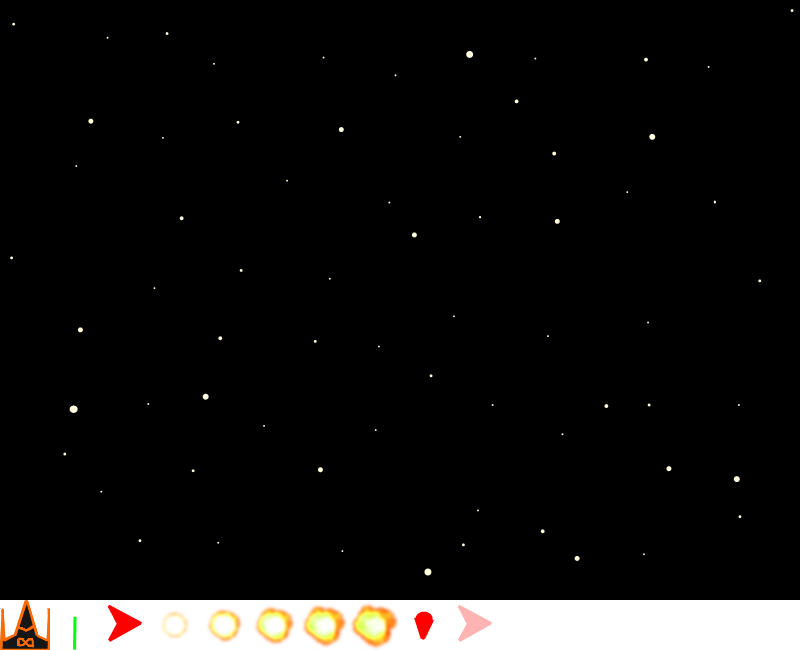
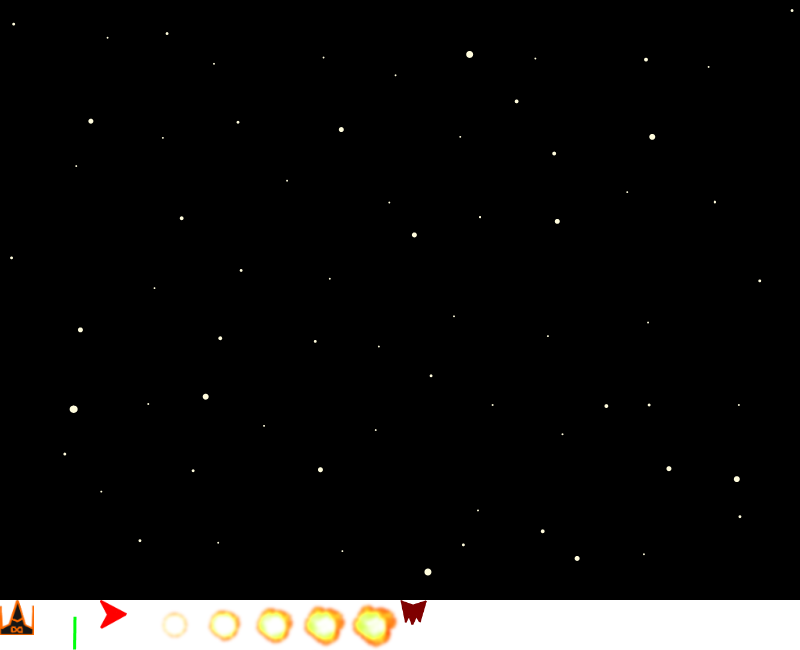
File splitting + New paths + New patrol enemy

Changed region(s): [[0.5, 0.9231, 0.625, 0.9846], [0.0, 0.9231, 0.0625, 1.0], [0.125, 0.9231, 0.1875, 0.9846]]

diff --git a/public/js/game.js b/public/js/game.js
@@ -1,31 +1,14 @@
-/*
-TODO list:
+/**
+ * game.js
+ * Jesse Emond and William Turner
+ * 12/11/2012
 
-*/
-
+ The main file of the game. All the components are mixed together here.
+ */
 
 // Game constants not-so-constant
 var SCREEN_W = 800;
 var SCREEN_H = 600;
-
-// Enemy constants
-
-// ENEMY1
-// Goes from a corner of the screen to the lower part of the screen on the other part
-var E1_FRAMES = 120; // frames required for the whole path
-var E1_STARTX = -50; // starting x and y coords
-var E1_STARTY = -50;
-var E1_TARGETX = SCREEN_W+50; // target x and y coords
-var E1_TARGETY = SCREEN_H+50;
-// function parameters calculated with the specified start&target parameters
-// at+b for the x coord, where b is the starting x pos
-var E1_X_B = E1_STARTX;
-var E1_X_A = (E1_TARGETX - E1_X_B) / E1_FRAMES;
-// a t^2 + k for the y coord, where k is the starting y pos
-var E1_Y_K = E1_STARTY;
-var E1_Y_A = (E1_TARGETY - E1_Y_K) / (E1_FRAMES * E1_FRAMES);
-// final result
-function enemy1Func(t) { return {x: E1_X_A * t + E1_X_B, y: E1_Y_A * t * t + E1_Y_K}; }
 
 // Initialize the game screen
 Crafty.init(SCREEN_W, SCREEN_H);
@@ -35,9 +18,9 @@ Crafty.sprite(50, "assets/back.png", {
     space: [0,0, 16, 12], // the space background
     ship: [0, 12], // the spaceship
     pewpewlazors: [1, 12], // the pewpew
-    enemy1: [2, 12], // the first enemy
+    grunt: [2, 12], // the grunt enemy
     explosion: [3, 12], // the explosion animation
-    fireball: [8, 12] // the fireball
+    patrol: [8, 12] // the patrol enemy
     });
     
 // Represents an image that will reset up the screen once it reached the bottom
@@ -137,23 +120,24 @@ Crafty.c("NotifyWhenOutOfScreen", {
 Crafty.c("FollowPath", {
     _path: function(x) { return x; },
     _deltaT: 0,
-    _reflexionY: false,
     init: function() {
         this.deltaT = 0;
+        this.showRotation = true;
 
         this.bind("EnterFrame", function() {
             var newPos = this.path(this.deltaT);
-            this.x = newPos.x;
-            this.y = newPos.y;
-            if (this.reflexionY)
-                this.x = -this.x + SCREEN_W;
+            var rect = this.mbr();
+            this.x = newPos.x + rect._w / 2;
+            this.y = newPos.y + rect._h / 2;
 
             this.deltaT++;
 
             // find the orientation that we should have based on our next position
-            var nextPos = this.path(this.deltaT);
-            this.rotation = Crafty.math.radToDeg(Math.atan2(nextPos.y - newPos.y, nextPos.x - newPos.x));
-            if (this.reflexionY) this.rotation = -this.rotation + 180;
+            if (this.showRotation)
+            {
+                var nextPos = this.path(this.deltaT);
+                this.rotation = Crafty.math.radToDeg(Math.atan2(nextPos.y - newPos.y, nextPos.x - newPos.x));
+            }
 
 
             // Is going out of screen? Destroy it.
@@ -167,7 +151,7 @@ Crafty.c("FollowPath", {
         });
     },
     followPath: function(func) { this.path = func; return this; },
-    setSpawnFromRight: function(spawnFromRight) { this.reflexionY = spawnFromRight; }
+    allowRotation: function(allow) { this.showRotation = allow; }
 });
 
 // Called when an enemy is hit by a pewpewlazors
@@ -263,7 +247,8 @@ Crafty.c("Spaceship", {
 
     init: function() {
         this.requires("2D, Canvas, ship, Living, HealthBar")
-            .setMaxHealth(100);
+            .setMaxHealth(100)
+            .crop(0,0,35,35);
         this.x = SCREEN_W/2 - this.w/2;
         this.y = SCREEN_H/2 - this.h/2;
         this.canShoot = true;
@@ -287,12 +272,12 @@ Crafty.c("Spaceship", {
                 .setDamage(10)
                 .setAngle(0)
                 .setSpeed(15)
+                .crop(22,15,4,35)
                 .collision()
-                .onHit("Enemy", onLazorHitEnemy)
-                .crop(22,15,4,35);
+                .onHit("Enemy", onLazorHitEnemy);
             // Spawn it above the player's center, to shoot them pewpews
             pew.x = this.x + this.w/2 - pew.w/2;
-            pew.y = this.y - 0.6*pew.h;
+            pew.y = this.y - this.h/2 - 0.3*pew.h;
             this.reload();
         }
     }
@@ -301,11 +286,7 @@ Crafty.c("Spaceship", {
 // Enemy component
 Crafty.c("Enemy", {
     init: function() {
-        this.requires("2D, Canvas, FollowPath, Collision, Living")
-            .setMaxHealth(20)
-            .origin("center")
-            .collision()
-            .onHit("Spaceship", onPlayerHitEnemy);
+        this.requires("2D, Canvas, Collision, Living, FollowPath");
     },
     setShootDelay: function(delay) {
         this.shootDelay = delay;
@@ -347,7 +328,7 @@ Crafty.c("Spawner", {
     },
     startSpawning: function() {
         this.spawnFunction();
-        this.timeout(this.startSpawning, 200); //TODO: random intervals
+        this.timeout(this.startSpawning, 1000); //TODO: random intervals
     }
 });
 
@@ -387,23 +368,35 @@ function startGame() {
     spawner.startSpawning();
 }
 
+Crafty.c("Grunt", {
+    init: function() {
+        this.requires("Enemy, grunt")
+            .crop(0,0,27,29)
+            .setMaxHealth(15);
+    }
+});
+
+Crafty.c("Patrol", {
+    init: function() {
+        this.requires("Enemy, patrol")
+            .crop(0,0,27,25)
+            .setMaxHealth(25)
+            .allowRotation(false);
+    }
+});
+
 // Spawns the specified enemy.
-function spawnEnemy(name) {
-    var enemy;
-
-    if (name == 'EasyEnemyNoShootTopRight')
-        enemy = Crafty.e("Enemy, enemy1")
-            .followPath(enemy1Func)
-            .crop(7,5,35,37)
-            .setProjectileType("Fireball")
-            .setShootDelay(500);
-
-    enemy.setSpawnFromRight(Crafty.math.randomInt(0, 1) === 0); // randomly spawn from left or right
+function spawnEnemy(enemyType, startX, startY, pathType) {
+    var enemy = Crafty.e(enemyType).attr({x:startX, y:startY})
+                                    .collision()
+                                    .onHit("Spaceship", onPlayerHitEnemy)
+                                    .origin("center");
+    enemy.followPath(getPath(pathType, startX, startY));
 
     return enemy;
 }
 
 function spawnNextEnemy() {
-    spawnEnemy('EasyEnemyNoShootTopRight');
+    spawnEnemy('Patrol', 350, -50, "PatrolHorizontal");
+    spawnEnemy('Grunt', 0, -50, "TopLeftBottomRight");
 }
-

diff --git a/public/js/enemy_paths.js b/public/js/enemy_paths.js
@@ -1,0 +1,147 @@
+/** enemy_paths.js
+ * Jesse Emond
+ * 12/11/2012
+
+ Contains the path's mathematical definitions that the enemies can follow.
+
+ For a list of the different paths and their definitions, see:
+
+                        *****************
+                        * EnemyPaths.md *
+                        *****************
+
+ */
+
+function getPath(pathType, startX, startY) {
+    var DIAGONAL_FRAMES = 120; // frames required for the whole diagonal path
+    var DIAGONAL_TARGETY = SCREEN_H+50;
+
+    var HORIZONTAL_FRAMES = 90; // frames required for the whole horizontal path
+    var VERTICAL_FRAMES = HORIZONTAL_FRAMES; // frames required for the whole horizontal path
+
+    if (pathType == "TopLeftBottomRight")
+    {
+        var LEFT_DIAGONAL_TARGETX = SCREEN_W+50; // target coords
+        // function parameters calculated with the specified start&target parameters
+        // at+b for the x coord, where b is the starting x pos
+        var LEFT_DIAGONAL_X_B = startX;
+        var LEFT_DIAGONAL_X_A = (LEFT_DIAGONAL_TARGETX - LEFT_DIAGONAL_X_B) / DIAGONAL_FRAMES;
+        // a t^2 + k for the y coord, where k is the starting y pos
+        var LEFT_DIAGONAL_Y_K = startY;
+        var LEFT_DIAGONAL_Y_A = (DIAGONAL_TARGETY - LEFT_DIAGONAL_Y_K) / (DIAGONAL_FRAMES * DIAGONAL_FRAMES);
+        // final result
+        return function(t) {
+            return {
+                x: LEFT_DIAGONAL_X_A * t + LEFT_DIAGONAL_X_B,
+                y: LEFT_DIAGONAL_Y_A * t * t + LEFT_DIAGONAL_Y_K
+            };
+        };
+    }
+
+    else if (pathType == "TopRightBottomLeft")
+    {
+        var RIGHT_DIAGONAL_TARGETX = -50; // target coords
+        // function parameters calculated with the specified start&target parameters
+        // at+b for the x coord, where b is the starting x pos
+        var RIGHT_DIAGONAL_X_B = startX;
+        var RIGHT_DIAGONAL_X_A = (RIGHT_DIAGONAL_TARGETX - RIGHT_DIAGONAL_X_B) / DIAGONAL_FRAMES;
+        // a t^2 + k for the y coord, where k is the starting y pos
+        var RIGHT_DIAGONAL_Y_K = startY;
+        var RIGHT_DIAGONAL_Y_A = (DIAGONAL_TARGETY - RIGHT_DIAGONAL_Y_K) / (DIAGONAL_FRAMES * DIAGONAL_FRAMES);
+        // final result
+        return function(t) {
+            return {
+                x: RIGHT_DIAGONAL_X_A * t + RIGHT_DIAGONAL_X_B,
+                y: RIGHT_DIAGONAL_Y_A * t * t + RIGHT_DIAGONAL_Y_K
+            };
+        };
+    }
+
+    else if (pathType == "LeftRight")
+    {
+        var LEFT_HORIZONTAL_TARGETX = SCREEN_W+50;
+        var LEFT_HORIZONTAL_X_A = (LEFT_HORIZONTAL_TARGETX - startX) / HORIZONTAL_FRAMES;
+
+        return function(t) {
+            return {
+                x: LEFT_HORIZONTAL_X_A * t + startX,
+                y: startY
+            };
+        };
+    }
+
+    else if (pathType == "RightLeft")
+    {
+        var RIGHT_HORIZONTAL_TARGETX = -50;
+        var RIGHT_HORIZONTAL_X_A = (RIGHT_HORIZONTAL_TARGETX - startX) / HORIZONTAL_FRAMES;
+
+        return function(t) {
+            return {
+                x: RIGHT_HORIZONTAL_X_A * t + startX,
+                y: startY
+            };
+        };
+    }
+
+    else if (pathType == "TopBottom")
+    {
+        var TOP_VERTICAL_TARGETY = SCREEN_W+50;
+        var TOP_VERTICAL_Y_A = (TOP_VERTICAL_TARGETY - startY) / VERTICAL_FRAMES;
+
+        return function(t) {
+            return {
+                x: startX,
+                y: TOP_VERTICAL_Y_A * t + startY
+            };
+        };
+    }
+
+    else if (pathType == "BottomTop")
+    {
+        var BOTTOM_VERTICAL_TARGETY = -50;
+        var BOTTOM_VERTICAL_Y_A = (BOTTOM_VERTICAL_TARGETY - startY) / VERTICAL_FRAMES;
+
+        return function(t) {
+            return {
+                x: startX,
+                y: BOTTOM_VERTICAL_Y_A * t + startY
+            };
+        };
+    }
+
+    else if (pathType == "PatrolHorizontal")
+    {
+        return function(t) {
+            var PATROL_REACH_UPPER_FRAMES = 40;
+            var PATROL_UPPER_Y = 100;
+            if (t <= PATROL_REACH_UPPER_FRAMES) // frames to reach the upper screen
+            {
+                var patrolHorizA = (PATROL_UPPER_Y - startY) / PATROL_REACH_UPPER_FRAMES;
+                return {
+                    x: startX,
+                    y: patrolHorizA * t + startY
+                };
+            }
+            else // we should patrol instead
+            {
+                var PATROL_TOTAL_FRAMES = 400;
+                var PATROL_MIN_X = 50;
+                var PATROL_MAX_X = SCREEN_W-50;
+
+                var PATROL_X_K = (PATROL_MAX_X + PATROL_MIN_X) / 2;
+                var PATROL_X_A = (Crafty.math.randomInt(0, 1) === 0 ? 1 : -1) * //COOLEST FEATURE EVER DO NOT REMOVEEEEE
+                    (PATROL_MAX_X - PATROL_MIN_X) / 2;
+                var PATROL_X_B = 2 * Math.PI / PATROL_TOTAL_FRAMES;
+                // Update to take into account our startX
+                PATROL_X_H = -(Math.asin( (startX - PATROL_X_K) / PATROL_X_A ) / PATROL_X_B);
+                return {
+                    x: PATROL_X_A * Math.sin(PATROL_X_B * (t - PATROL_REACH_UPPER_FRAMES - PATROL_X_H)) + PATROL_X_K,
+                    y: PATROL_UPPER_Y
+                };
+            }
+        };
+    }
+
+    else
+        throw("Path '" + pathType + "' is not implemented.");
+}

diff --git a/public/index.html b/public/index.html
@@ -11,11 +11,14 @@
 <body>
   <script src="js/game.js"></script>
   <script src="/socket.io/socket.io.js"></script>
+
+  <script src="js/enemy_paths.js"></script>
+
   <script>
-    var socket = io.connect();
+    /*var socket = io.connect();
     socket.on('fuck', function(data) {
-      if (data.val == "you") startGame();
-    });
+      if (data.val == "you")*/ startGame();/*
+    });*/
   </script>
 </body>
 

diff --git a/EnemyPaths.md b/EnemyPaths.md
@@ -1,0 +1,14 @@
+=== PROJECT NIXIE ===
+==== Enemy Paths =====
+
+General syntax: the first words determine the starting position and the last ones represent
+the destination.
+
+#. "TopLeftBottomRight": Go from the top left corner to the bottom right one.
+#. "TopRightBottomLeft": Go from the top right corner to the bottom left one.
+#. "LeftRight": Go horizontally from left to right.
+#. "RightLeft": Go horizontally from right to left.
+#. "TopBottom": Go vertically from top to bottom.
+#. "BottomTop": Go vertically from bottom to top.
+
+#. "PatrolHorizontalRightFirst": Comes down from the top of the screen, reaching the upper part of the screen. Then, it patrols horizontally, starting with a random direction.

diff --git a/TODO.md b/TODO.md
@@ -1,11 +1,11 @@
 === PROJECT NIXIE ===
 ==== TODO LIST ====
 
-#. Receive enemy type,x,y,path
-#. Different grunt paths
-#. Reduce player&enemy size
-#. New enemy: go down, patrol left right
-#. Enemy waves (handle wave name list)
+#. Patrol: randomly start with left or right
+#. New enemy: shoot
+#. File for entities (Living, HealthBar, FadingOut, etc.)
+#. File for enemies
+#. File for player
 #. Handle death: show branching on UI
 #. Visual feedback when enemies/player get hurt (dmg going up fading out?)
 #. Homing missile

diff --git a/Enemies.md b/Enemies.md
@@ -1,0 +1,5 @@
+=== PROJECT NIXIE ===
+==== Enemies =====
+
+#. "Grunt": Easy target that doesn't shoot and simply passes by.
+#. "Patrol": Target that comes down the top of the screen and then patrols horizontally, occasionally shooting down.
